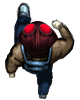
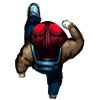
Movement (fix)

Changed region(s): [[0.05, 0.0, 0.95, 0.99]]

diff --git a/GameObjects/GameObject.cs b/GameObjects/GameObject.cs
@@ -20,9 +20,9 @@ namespace SystemShutdown.GameObjects
         public Vector2 origin;
 
         protected float rotation;
-        protected float rotationVelocity = 3f;
         protected Vector2 offset;
         public Vector2 position;
+        public Rectangle rectangle;
 
         protected float timePassed;
 
@@ -68,18 +68,18 @@ namespace SystemShutdown.GameObjects
 
         public override void Update(GameTime gameTime)
         {
-
+            //origin = new Vector2(sprite.Width / 2, sprite.Height / 2);
         }
 
         public override void Draw(GameTime gameTime, SpriteBatch spriteBatch)
         {
             // Frederik
-            spriteBatch.Draw(sprite, position, Colour);
+            spriteBatch.Draw(sprite, position, null, Colour, rotation, origin, 1f, SpriteEffects.None, 0);
         }
 
         protected void Animate(GameTime gametime)
         {
-            if (Keyboard.GetState().IsKeyDown(Keys.W))
+            if (Keyboard.GetState().IsKeyDown(Keys.W) || Keyboard.GetState().IsKeyDown(Keys.S) || Keyboard.GetState().IsKeyDown(Keys.D) || Keyboard.GetState().IsKeyDown(Keys.A))
             {
                 //Giver tiden, der er gået, siden sidste update
                 timeElapsed += (float)gametime.ElapsedGameTime.TotalSeconds;
@@ -96,57 +96,57 @@ namespace SystemShutdown.GameObjects
                     currentIndex = 0;
                 }
             }
-            else if (Keyboard.GetState().IsKeyDown(Keys.S))
-            {
-                //Giver tiden, der er gået, siden sidste update
-                timeElapsed += (float)gametime.ElapsedGameTime.TotalSeconds;
+            //else if (Keyboard.GetState().IsKeyDown(Keys.S))
+            //{
+            //    //Giver tiden, der er gået, siden sidste update
+            //    timeElapsed += (float)gametime.ElapsedGameTime.TotalSeconds;
 
-                //Beregner currentIndex
-                currentIndex = (int)(timeElapsed * fps);
-                sprite = downWalk[currentIndex];
+            //    //Beregner currentIndex
+            //    currentIndex = (int)(timeElapsed * fps);
+            //    sprite = downWalk[currentIndex];
 
-                //Checks if animation needs to restart
-                if (currentIndex >= downWalk.Length - 1)
-                {
-                    //Resets animation
-                    timeElapsed = 0;
-                    currentIndex = 0;
-                }
-            }
-            else if (Keyboard.GetState().IsKeyDown(Keys.D))
-            {
-                //Giver tiden, der er gået, siden sidste update
-                timeElapsed += (float)gametime.ElapsedGameTime.TotalSeconds;
+            //    //Checks if animation needs to restart
+            //    if (currentIndex >= downWalk.Length - 1)
+            //    {
+            //        //Resets animation
+            //        timeElapsed = 0;
+            //        currentIndex = 0;
+            //    }
+            //}
+            //else if (Keyboard.GetState().IsKeyDown(Keys.D))
+            //{
+            //    //Giver tiden, der er gået, siden sidste update
+            //    timeElapsed += (float)gametime.ElapsedGameTime.TotalSeconds;
 
-                //Beregner currentIndex
-                currentIndex = (int)(timeElapsed * fps);
-                sprite = rightWalk[currentIndex];
+            //    //Beregner currentIndex
+            //    currentIndex = (int)(timeElapsed * fps);
+            //    sprite = rightWalk[currentIndex];
 
-                //Checks if animation needs to restart
-                if (currentIndex >= rightWalk.Length - 1)
-                {
-                    //Resets animation
-                    timeElapsed = 0;
-                    currentIndex = 0;
-                }
-            }
-            else if (Keyboard.GetState().IsKeyDown(Keys.A))
-            {
-                //Giver tiden, der er gået, siden sidste update
-                timeElapsed += (float)gametime.ElapsedGameTime.TotalSeconds;
+            //    //Checks if animation needs to restart
+            //    if (currentIndex >= rightWalk.Length - 1)
+            //    {
+            //        //Resets animation
+            //        timeElapsed = 0;
+            //        currentIndex = 0;
+            //    }
+            //}
+            //else if (Keyboard.GetState().IsKeyDown(Keys.A))
+            //{
+            //    //Giver tiden, der er gået, siden sidste update
+            //    timeElapsed += (float)gametime.ElapsedGameTime.TotalSeconds;
 
-                //Beregner currentIndex
-                currentIndex = (int)(timeElapsed * fps);
-                sprite = leftWalk[currentIndex];
+            //    //Beregner currentIndex
+            //    currentIndex = (int)(timeElapsed * fps);
+            //    sprite = leftWalk[currentIndex];
 
-                //Checks if animation needs to restart
-                if (currentIndex >= leftWalk.Length - 1)
-                {
-                    //Resets animation
-                    timeElapsed = 0;
-                    currentIndex = 0;
-                }
-            }
+            //    //Checks if animation needs to restart
+            //    if (currentIndex >= leftWalk.Length - 1)
+            //    {
+            //        //Resets animation
+            //        timeElapsed = 0;
+            //        currentIndex = 0;
+            //    }
+            //}
         }
 
         public virtual void OnCollision(GameObject gameObject)

diff --git a/GameObjects/Player.cs b/GameObjects/Player.cs
@@ -14,10 +14,12 @@ namespace SystemShutdown.GameObjects
         private KeyboardState currentKey;
 
         private KeyboardState previousKey;
+
         private float speed;
         private float laserSpeed;
         public Vector2 previousPosition;
-        public Rectangle rectangle;
+
+        private Vector2 currentDir;
 
         #endregion
 
@@ -51,8 +53,32 @@ namespace SystemShutdown.GameObjects
                 return;
             }
 
+
+
+            origin = new Vector2(rectangle.Width / 2, rectangle.Height / 2);
+
             Animate(gametime: gameTime);
 
+            ////Right
+            //if (currentDir.X == 1)
+            //{
+            //    rotation += 90f;
+            //}
+            ////Left
+            //if (currentDir.X == -1)
+            //{
+            //    rotation += 90f;
+            //}
+            ////Down
+            //if (currentDir.Y == 1)
+            //{
+
+            //}
+            ////Up
+            //if (currentDir.Y == -1)
+            //{
+
+            //}
             //Move(gameTime);
         }
 
@@ -72,43 +98,39 @@ namespace SystemShutdown.GameObjects
             //When loop is finished return to first sprite/Sets default sprite
             sprite = upWalk[0];
 
-            //Load sprite sheet
-            downWalk = new Texture2D[3];
+            ////Load sprite sheet
+            //downWalk = new Texture2D[3];
 
-            //Loop animaiton
-            for (int h = 0; h < downWalk.Length; h++)
-            {
-                downWalk[h] = content.Load<Texture2D>(h + 1 + "GuyDown");
-            }
-            //When loop is finished return to first sprite/Sets default sprite
-            sprite = downWalk[0];
-
-            //Load sprite sheet
-            rightWalk = new Texture2D[3];
-
-            //Loop animaiton
-            for (int i = 0; i < rightWalk.Length; i++)
-            {
-                rightWalk[i] = content.Load<Texture2D>(i + 1 + "GuyRight");
-            }
-            //When loop is finished return to first sprite/Sets default sprite
-            sprite = rightWalk[0];
+            ////Loop animaiton
+            //for (int h = 0; h < downWalk.Length; h++)
+            //{
+            //    downWalk[h] = content.Load<Texture2D>(h + 1 + "GuyDown");
+            //}
+            ////When loop is finished return to first sprite/Sets default sprite
+            //sprite = downWalk[0];
 
             //Load sprite sheet
-            leftWalk = new Texture2D[3];
+            //rightWalk = new Texture2D[3];
 
-            //Loop animaiton
-            for (int j = 0; j < leftWalk.Length; j++)
-            {
-                leftWalk[j] = content.Load<Texture2D>(j + 1 + "GuyLeft");
-            }
-            //When loop is finished return to first sprite/Sets default sprite
-            sprite = leftWalk[0];
+            ////Loop animaiton
+            //for (int i = 0; i < rightWalk.Length; i++)
+            //{
+            //    rightWalk[i] = content.Load<Texture2D>(i + 1 + "GuyRight");
+            //}
+            ////When loop is finished return to first sprite/Sets default sprite
+            //sprite = rightWalk[0];
 
-            //this.position = new Vector2(GameWorld.ScreenWidth / 2, GameWorld.ScreenHeight - sprite.Height / 2);
-            this.origin = new Vector2(sprite.Height / 2, sprite.Width / 2);
-            this.offset.X = (-sprite.Width / 2) - 20;
-            this.offset.Y = -sprite.Height / 2;
+            ////Load sprite sheet
+            //leftWalk = new Texture2D[3];
+
+            ////Loop animaiton
+            //for (int j = 0; j < leftWalk.Length; j++)
+            //{
+            //    leftWalk[j] = content.Load<Texture2D>(j + 1 + "GuyLeft");
+            //}
+            ////When loop is finished return to first sprite/Sets default sprite
+            //sprite = leftWalk[0];
+
         }
         public override void Draw(GameTime gameTime, SpriteBatch spriteBatch)
         {
@@ -122,9 +144,10 @@ namespace SystemShutdown.GameObjects
             base.Draw(gameTime, spriteBatch);
         }
 
-
         public void Move(Vector2 velocity)
         {
+            currentDir = velocity;
+
             if (velocity != Vector2.Zero)
             {
                 velocity.Normalize();
@@ -134,6 +157,26 @@ namespace SystemShutdown.GameObjects
             rectangle.X = (int)position.X;
             rectangle.Y = (int)position.Y;
 
+            if (Keyboard.GetState().IsKeyDown(Keys.D))
+            {
+                rotation = (float)Math.PI / 2;
+            }
+            else if (Keyboard.GetState().IsKeyDown(Keys.A))
+            {
+                rotation = (float)Math.PI * 3 / 2;
+            }
+            else if (Keyboard.GetState().IsKeyDown(Keys.S))
+            {
+                rotation = (float)Math.PI;
+            }
+            else if (Keyboard.GetState().IsKeyDown(Keys.W))
+            {
+                rotation = (float)Math.PI * 2;
+            }
+            else if (Keyboard.GetState().IsKeyDown(Keys.W) && Keyboard.GetState().IsKeyDown(Keys.D))
+            {
+                rotation = (float)Math.PI * 3 / 4;
+            }
         }
 
         public void Shoot(Vector2 velocity, Vector2 position)

diff --git a/CommandPattern/ShootCommand.cs b/CommandPattern/ShootCommand.cs
@@ -6,30 +6,30 @@ using SystemShutdown.GameObjects;
 
 namespace SystemShutdown.CommandPattern
 {
-    class ShootCommand : ICommand
+    class ShootCommand /*: ICommand*/
     {
+        //private Vector2 velocity;
 
+        //public ShootCommand(Vector2 velocity)
+        //{
+        //    this.velocity = velocity;
+        //}
 
-        public ShootCommand(Vector2 velocity)
-        {
-            this.velocity = velocity;
-        }
+        //public void Execute(Player player)
+        //{
 
-        public void Execute(Player player)
-        {
+        //    player.previousPosition = player.position;
+        //    player.Move(velocity);
 
-            player.previousPosition = player.position;
-            player.Move(velocity);
+        //    foreach (var item in GameWorld.gameState.grid.nodes)
+        //    {
+        //        if (item.Passable == false)
+        //        {
+        //            if (player.rectangle.Intersects(item.collisionRectangle))
+        //                player.position = player.previousPosition;
+        //        }
 
-            foreach (var item in GameWorld.gameState.grid.nodes)
-            {
-                if (item.Passable == false)
-                {
-                    if (player.rectangle.Intersects(item.collisionRectangle))
-                        player.position = player.previousPosition;
-                }
-
-            }
-        }
+        //    }
+        //}
     }
 }

diff --git a/AStar/Grid.cs b/AStar/Grid.cs
@@ -24,7 +24,7 @@ namespace SystemShutdown.AStar
                         nodes[x, y].x = x;
                         nodes[x, y].y = y;
                         if ((x != 0 && y != 0) &&
-                            rand.Next(1, 100) < 25)
+                            rand.Next(1, 25) < 5)
                         {
                             nodes[x, y].Passable = false;
                         }
